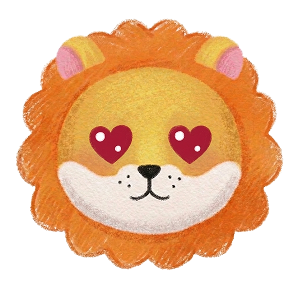
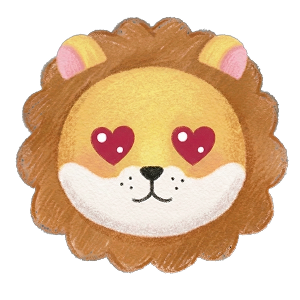
Refactor: 사진 변경, 버튼 컴포넌트 수정 및 페이지 분할

diff --git a/src/pages/jiyeon/JiyeonRouter.js b/src/pages/jiyeon/JiyeonRouter.js
@@ -1,25 +1,37 @@
 // 지연 전용 라우팅 파일
 // 라우팅을 App.js에 하지 말고 여기서!
 import { Routes, Route } from "react-router-dom";
-import Complete from "./Complete";
+import Complete from "./Complete"
+import { selectPages, questionPages, resultPages } from "./pages/pageData"
 // import Login from "./Login"; 이런 식으로 본인이 만든 페이지 불러와서
 
 export default function JiyeonRouter() {
   return (
     <Routes>
-      <Route path="/complete" element={<Complete 
-      title="선택 완료!"
-      gap="35px"/>} />
+      {selectPages.map((page) => (
+        <Route
+          key={page.path}
+          path={page.path}
+          element={<Complete {...page} />}
+        />
+      ))}
 
-      <Route path= "/about-me" element={<Complete title="질문에 대한
-답변을 선택해줘!"
-      fontSize="2rem" />} />
+      {questionPages.map((page) => (
+        <Route
+          key={page.path}
+          path={page.path}
+          element={<Complete {...page} />}
+        />
+      ))}
 
-      <Route path= "/about-you" element={<Complete title="이제 내가 원하는
-상대를 골라보자!"
-      fontSize="2rem" />} />
-
-      {/* 순서대로 선택 완료, 본인 선택, 상대 선택 페이지 */}
+      {resultPages.map((page) => (
+        <Route
+          key={page.path}
+          path={page.path}
+          element={<Complete {...page} />}
+        />
+      ))}
+      
       {/* <Route path="login" element={<Login />} /> 이런 식으로 본인이 만든 페이지 라우팅 설정하세용*/}
       {/* 자기가 만든 페이지 확인하고 싶으면 이거 연동 다 하고 주소 뒤에 jiyeon/login 처럼 입력하면 됨 */}
     </Routes>

diff --git a/src/pages/jiyeon/pages/pageData.js b/src/pages/jiyeon/pages/pageData.js
@@ -1,0 +1,49 @@
+// 비슷한 페이지끼리 묶어서 관리할 데이터
+
+export const selectPages = [
+  {
+    path: "/complete",
+    title: "작성 완료!",
+    button: "다음",
+  },
+  {
+    path: "/ready",
+    title: "선택 완료!",
+    button: "다음",
+  },
+];
+
+export const questionPages = [
+  {
+    path: "/about-me",
+    title: "질문에 대한\n답변을 선택해줘!",
+    fontSize: "2rem",
+    button: "시작하기",
+  },
+  {
+    path: "/about-you",
+    title: "이제 내가 원하는\n상대를 골라보자!",
+    fontSize: "2rem",
+    button: "다음",
+  },
+];
+
+export const resultPages = [
+  {
+    path: "/waiting",
+    title: "결과는 18시에\n나와요!",
+    fontSize: "2rem",
+  },
+  {
+    path: "/match-success",
+    title: "매칭 성공!",
+    lion: "bigheart",
+    button: "결과 확인하기",
+  },
+  {
+    path: "/match-fail",
+    title: "매칭 실패!",
+    lion: "crying",
+    button: "끝내기",
+  },
+];

diff --git a/src/components/common/Button.jsx b/src/components/common/Button.jsx
@@ -1,22 +1,26 @@
 import styled from "styled-components";
 
 const StyledBtn = styled.button`
-    width: 150px;
     height: 60px;
     border: none;
     border-radius: 20px;
-    background-color: rgb(233, 141, 60);
-
+    background-color: rgb(230, 158, 166);
     font-size: 2rem;
     color: white;
-    padding: 10px 20px;
-
     box-shadow: 0px 4px 6px rgba(0, 0, 0, 0.3);
+
+    /* 내용물에 따라 가로 길이 자동 조정 */
+    min-width: 150px;
+    padding: 10px 34px;
+    width: auto;
+    white-space: nowrap;
+
 
     transition: transform 0.1s ease, box-shadow 0.1s ease;
 
     &:active {
         box-shadow: inset 2px 5px 5px rgba(0, 0, 0, 0.3);
+        background-color: rgb(240, 140, 151);
     }
 `;
 

diff --git a/src/pages/jiyeon/Complete.jsx b/src/pages/jiyeon/Complete.jsx
@@ -1,16 +1,15 @@
 import React from 'react';
-import Button from "../../components/Button.jsx";
+import Button from "../../components/common/Button.jsx";
 import * as S from "./styles/complete.styles.js";
 
-
-function Complete({ title, fontSize, gap = "10px"}){
+function Complete({ title, fontSize, lion = "smile", button}){
     return(
         <S.Container>
             <S.Title $fontSize={fontSize}>{title}</S.Title>
-            <S.Lion $gap={gap}>
-                <img src = "/assets/smileLion.png"/>
+            <S.Lion>
+                <img src={`/assets/${lion}Lion.png`}/>
             </S.Lion>
-            <Button>다음</Button>
+            {button && <Button>{button}</Button>}
         </S.Container>
     );
 }

diff --git a/src/pages/jiyeon/styles/complete.styles.js b/src/pages/jiyeon/styles/complete.styles.js
@@ -10,15 +10,15 @@ export const Title = styled.h2`
 `;
 
 export const Lion = styled.div`
-margin-top: ${(props) => props.$gap || "10px"};
-margin-bottom: 30px;
+    margin-top: 10px;
+    margin-bottom: 30px;
 `;
 
 export const Container = styled.div`
-    margin-top: 140px;
     display: flex;
     flex-direction: column;
     align-items: center;
-    justify-content: space-between;
+    justify-content: center;
+    height: 100dvh;
 `;
 

diff --git a/src/pages/jiyeon/pages/ResultPages.jsx b/src/pages/jiyeon/pages/ResultPages.jsx
@@ -1,0 +1,14 @@
+import { Route } from "react-router-dom";
+import Complete from "../Complete";
+import { resultPages } from "./pageData";
+
+export default function ResultPage({ title, lion, button }) {
+  return (
+    <Complete
+      title={title}
+      fontSize="2rem"
+      lion={lion}
+      button={button}
+    />
+  );
+}

diff --git a/src/pages/jiyeon/pages/QuestionPages.jsx b/src/pages/jiyeon/pages/QuestionPages.jsx
@@ -1,0 +1,9 @@
+//about-me, about-you 페이지 묶음
+
+import { Route } from "react-router-dom";
+import Complete from "../Complete";
+import { questionPages } from "./pageData";
+
+export default function QuestionPage({ title, button }) {
+  return <Complete title={title} fontSize="2rem" button={button} />;
+}

diff --git a/src/pages/jiyeon/pages/SelectPages.jsx b/src/pages/jiyeon/pages/SelectPages.jsx
@@ -1,0 +1,9 @@
+//complete, ready 페이지 묶음
+
+import { Route } from "react-router-dom";
+import Complete from "../Complete";
+import { selectPages } from "./pageData";
+
+export default function SelectPage({ title, button }) {
+  return <Complete title={title} button={button} />;
+}
